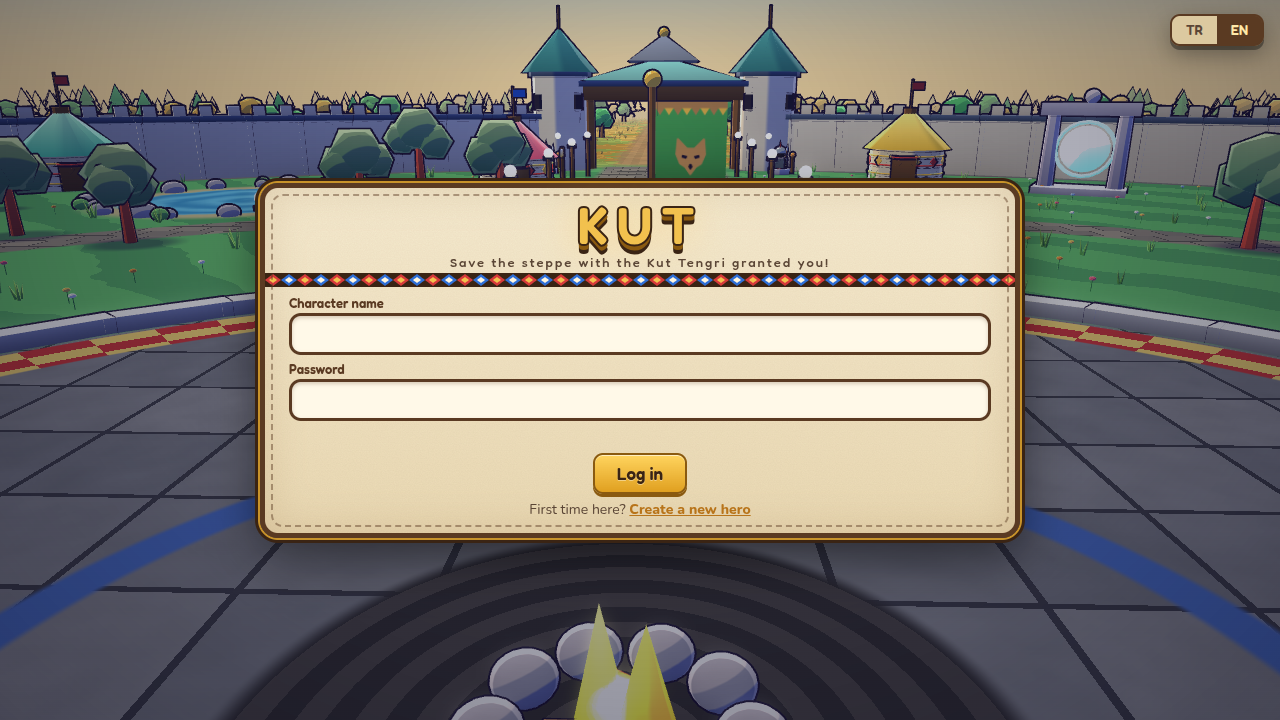
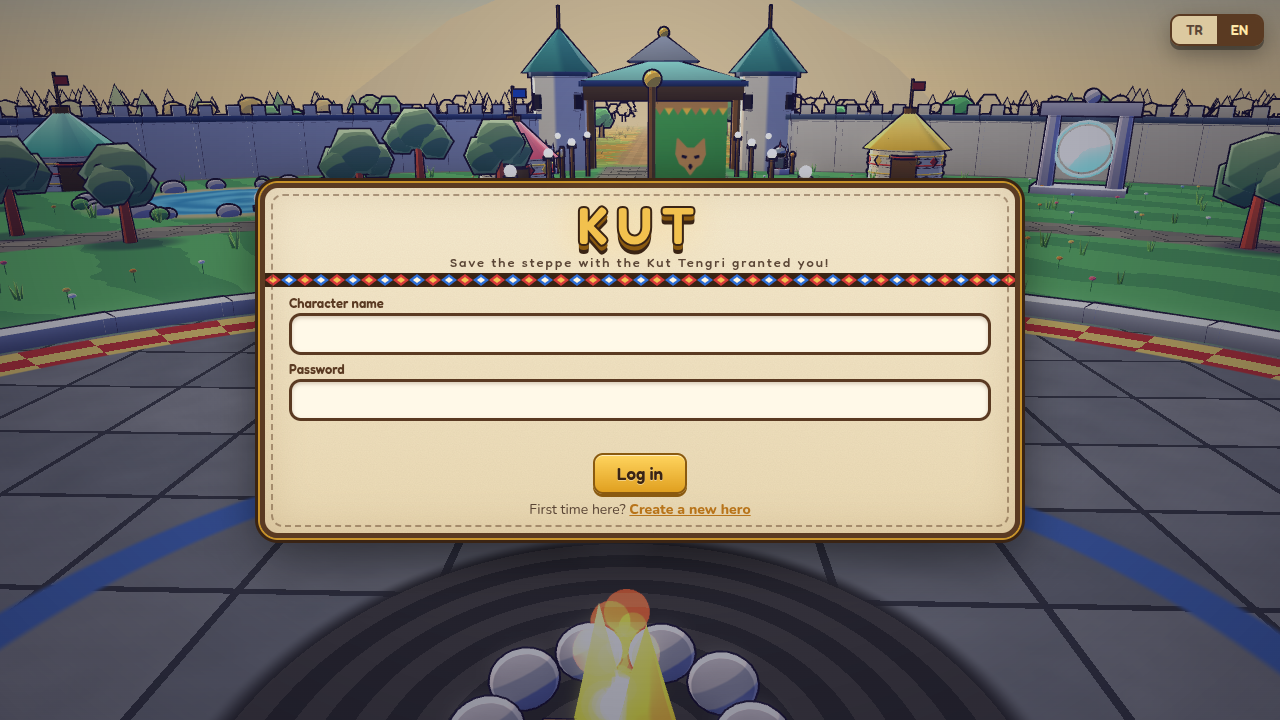
Görüş mesafesi ayarı (Yakın/Orta/Uzak): sis, kamera düzlemi, LOD ve uzak varlık hesabı tek çarpandan; otomatik kalite önce görüş mesafesini düşürür
Claude-Session: https://claude.ai/code/session_01MKJNxyGr6hh6HotEt8aAn4

diff --git a/client/src/game/world.ts b/client/src/game/world.ts
@@ -8,7 +8,7 @@ import { mulberry32 } from '@shared/rng';
 import { ROAD_HALF, ROAD_LEN, genStones, roadDist, worldObstacles } from '@shared/world';
 import { drawEmblem } from '../ui/emblems';
 import { build, type PartSpec } from './meshkit';
-import { FOG_COLOR, SKY, addOutline, toonMaterial } from './toon';
+import { FOG_COLOR, SKY, addOutline, getViewK, registerFog, toonMaterial } from './toon';
 
 // ───────────────────────── Zemin shader'ı ─────────────────────────
 Effect.ShadersStore['groundVertexShader'] = `
@@ -191,7 +191,7 @@ export class World3D {
   root = new TransformNode('world');
   chunks: Chunk[] = [];
   /** uzaklık tabanlı ayrıntı: uzaktaki çimen/kaya/ağaç parçaları ve konturları kapatılır (kamera hedefine göre) */
-  lod(camX: number, camZ: number) { const h = CHUNK * 0.71; for (const c of this.chunks) { const d = Math.hypot(c.x - camX, c.z - camZ) - h; const on = d < c.maxD; if (on !== c.on) { c.on = on; c.m.setEnabled(on); if (c.ol) { c.ol.setEnabled(on && c.olOn); } } if (c.ol && on) { const olOn = d < c.olD; if (olOn !== c.olOn) { c.olOn = olOn; c.ol.setEnabled(olOn); } } } }
+  lod(camX: number, camZ: number) { const h = CHUNK * 0.71; const kv = getViewK(); for (const c of this.chunks) { const d = Math.hypot(c.x - camX, c.z - camZ) - h; const on = d < c.maxD * kv; if (on !== c.on) { c.on = on; c.m.setEnabled(on); if (c.ol) { c.ol.setEnabled(on && c.olOn); } } if (c.ol && on) { const olOn = d < c.olD * kv; if (olOn !== c.olOn) { c.olOn = olOn; c.ol.setEnabled(olOn); } } } }
   ground!: Mesh; grounds: Mesh[] = []; sky!: Mesh; skyTop = Color3.FromHexString(SKY.top); skyMid = Color3.FromHexString(SKY.mid); skyHor = Color3.FromHexString(SKY.horizon); atmo: MapId = 'bozkir'; skyMat!: ShaderMaterial; clouds = new TransformNode('clouds');
   mats: ShaderMaterial[] = []; flames: Mesh[] = []; flagPivots: TransformNode[] = []; runes: Mesh[] = []; steleMat!: ShaderMaterial;
   otagGlow = 0; time = 0;
@@ -214,7 +214,7 @@ export class World3D {
     const g = MeshBuilder.CreateDisc('ground', { radius: WORLD_R + 130, tessellation: 96 }, this.scene);
     g.rotation.x = Math.PI / 2; g.bakeCurrentTransformIntoVertices();
     const mat = new ShaderMaterial('ground', this.scene, 'ground', { attributes: ['position'], uniforms: ['world', 'worldViewProjection', 'cameraPosition', 'uFogColor', 'uFog', 'uTime', 'uOtag'] });
-    mat.setColor3('uFogColor', FOG_COLOR); mat.setVector2('uFog', { x: 110, y: 300 } as never); mat.setFloat('uTime', 0); mat.setFloat('uOtag', 1);
+    mat.setColor3('uFogColor', FOG_COLOR); registerFog(mat, 110, 300); mat.setFloat('uTime', 0); mat.setFloat('uOtag', 1);
     mat.backFaceCulling = false; g.material = mat; g.isPickable = true; g.name = 'ground'; this.ground = g; this.grounds.push(g); this.mats.push(mat);
   }
   private makeMountains() {
@@ -505,7 +505,7 @@ export class World3D {
       const d = MeshBuilder.CreateDisc('rground' + g.id, { radius: g.r + 40, tessellation: 64 }, sc);
       d.rotation.x = Math.PI / 2; d.bakeCurrentTransformIntoVertices(); d.position.set(g.cx, 0, g.cz);
       const mat = new ShaderMaterial('rground' + g.id, sc, 'rground', { attributes: ['position'], uniforms: ['world', 'worldViewProjection', 'cameraPosition', 'uFogColor', 'uFog', 'uTime', 'uC', 'uA', 'uB', 'uR', 'uSafe', 'uKind'] });
-      mat.setColor3('uFogColor', FOG_COLOR); mat.setVector2('uFog', { x: dun ? 40 : 110, y: dun ? 140 : 300 } as never); mat.setFloat('uTime', 0);
+      mat.setColor3('uFogColor', FOG_COLOR); registerFog(mat, dun ? 40 : 110, dun ? 140 : 300); mat.setFloat('uTime', 0);
       mat.setVector2('uC', { x: g.cx, y: g.cz } as never); mat.setColor3('uA', Color3.FromHexString(def.palette.ground)); mat.setColor3('uB', Color3.FromHexString(def.palette.ground2));
       mat.setFloat('uR', g.r); mat.setFloat('uSafe', g.safeR); mat.setFloat('uKind', dun ? 1 : g.map === 'erlik' ? 2 : 0);
       mat.backFaceCulling = false; d.material = mat; d.isPickable = true; this.grounds.push(d); this.mats.push(mat);

diff --git a/client/src/ui/panels.ts b/client/src/ui/panels.ts
@@ -390,6 +390,8 @@ export class Panels {
     return this.shell(t('ui.settings'), 'skills', `<div style="min-width:460px"><div class="setrow"><span class="l">${t('ui.lang')}</span><div class="seg"><button data-act="lang" data-v="tr" class="${getLang() === 'tr' ? 'on' : ''}">Türkçe</button><button data-act="lang" data-v="en" class="${getLang() === 'en' ? 'on' : ''}">English</button></div></div>
       <div class="setrow"><span class="l">${t('ui.sound')}</span><div class="seg"><button data-act="snd" data-v="1" class="${a.muted ? '' : 'on'}">${icon('sound')} On</button><button data-act="snd" data-v="0" class="${a.muted ? 'on' : ''}">${icon('mute')} Off</button></div></div>
       <div class="setrow"><span class="l">${t('ui.quality')}</span><div class="seg">${(['high', 'medium', 'low'] as const).map((k) => `<button data-act="q" data-v="${k}" class="${q === k ? 'on' : ''}">${t('ui.q.' + k)}</button>`).join('')}</div></div>
+      <div class="setrow"><span class="l">${t('ui.view')}</span><div class="seg">${(['near', 'mid', 'far'] as const).map((k) => `<button data-act="vd" data-v="${k}" class="${this.g.gs.viewDist === k ? 'on' : ''}">${t('ui.v.' + k)}</button>`).join('')}</div></div>
+      <div class="sub" style="margin-top:2px">${t('ui.view.hint')}</div>
       <div class="gap"></div>${this.helpBody()}</div>`);
   }
   helpBody() { return `<div class="sub">${t('help.title')}</div><div class="helpgrid"><div>${t('help.move')}</div><div>${t('help.fight')}</div><div>${t('help.panels')}</div><div>${t('help.zones')}</div></div>`; }
@@ -475,6 +477,7 @@ export class Panels {
       case 'collect': { const r = await this.act('oba.collect', { expId: d.id }); if (r.ok) { const x = r.data as { result: ExpeditionResult; info: ObaInfo }; this.oba = x.info; this.expResult = x.result; this.g.audio.sfx('rare'); } break; }
       case 'lang': setLang(d.v as 'tr' | 'en'); this.g.refreshNpcNames(); this.g.ui.relocalize(); await this.g.net.rpc('lang', { lang: d.v }); break;
       case 'snd': this.g.audio.setMuted(d.v === '0'); this.g.audio.start(); break;
+      case 'vd': this.g.setViewDist(d.v as 'near' | 'mid' | 'far'); break;
       case 'q': this.g.setQuality(d.v as 'high' | 'medium' | 'low'); try { localStorage.setItem('kut.q', d.v!); } catch { /* */ } break;
     }
     if (act === 'send' || act === 'collect' || act === 'build') await this.refreshOba();

diff --git a/client/src/game/game.ts b/client/src/game/game.ts
@@ -15,6 +15,7 @@ import { GATE_LINKS, gatePos } from '@shared/game';
 import { regionAt } from '@shared/maps';
 import { LOOM_POS, costumeCode } from '@shared/costume';
 import { GameScene, type Quality } from './scene';
+import type { ViewDist } from './toon';
 import { World3D } from './world';
 
 interface Npc { key: 'aksakal' | 'demirci' | 'guard'; rig: Rig; x: number; z: number; plate: HTMLElement; mark: HTMLElement | null; t: number; faceAway?: number }
@@ -32,6 +33,7 @@ export class Game {
 
   constructor(public canvas: HTMLCanvasElement, public uiRoot: HTMLElement, quality: Quality) {
     this.gs = new GameScene(canvas, quality);
+    { let vd: ViewDist = 'mid'; try { const v = localStorage.getItem('kut.vd'); if (v === 'near' || v === 'mid' || v === 'far') vd = v; } catch { /* */ } this.gs.setViewDistance(vd); }
     this.world = new World3D(this.gs.scene);
     this.fx = new FX(this.gs.scene, uiRoot);
     this.vs = new ViewSystem(this.gs.scene, this.fx, uiRoot);
@@ -354,7 +356,7 @@ export class Game {
     // ölüm bayrağı
     if (dead && !this.wasDead) this.deadSince = now; this.wasDead = dead;
     // kalite otomatiği: uzun süre düşük kare hızı → kalite düşür
-    if (this.autoQuality && this.fps < 22 && this.gs.quality !== 'low') { if (!this.lowFpsSince) this.lowFpsSince = now; if (now - this.lowFpsSince > 6000) { this.gs.setQuality(this.gs.quality === 'high' ? 'medium' : 'low'); this.lowFpsSince = 0; this.ui.qualityChanged(); } } else this.lowFpsSince = 0;
+    if (this.autoQuality && this.fps < 22 && (this.gs.quality !== 'low' || this.gs.viewDist !== 'near')) { if (!this.lowFpsSince) this.lowFpsSince = now; if (now - this.lowFpsSince > 6000) { if (this.gs.viewDist !== 'near') this.setViewDist(this.gs.viewDist === 'far' ? 'mid' : 'near'); else this.gs.setQuality(this.gs.quality === 'high' ? 'medium' : 'low'); this.lowFpsSince = 0; this.ui.qualityChanged(); } } else this.lowFpsSince = 0;
     this.ui.frame(dt, zone);
   }
 
@@ -379,6 +381,7 @@ export class Game {
   }
 
   setQuality(q: Quality) { this.gs.setQuality(q); }
+  setViewDist(v: ViewDist) { this.gs.setViewDistance(v); try { localStorage.setItem('kut.vd', v); } catch { /* */ } }
   respawn() { return this.net.rpc('respawn'); }
   dispose() { this.gs.engine.stopRenderLoop(); this.net.leave(); }
 }

diff --git a/client/src/game/entities.ts b/client/src/game/entities.ts
@@ -5,7 +5,7 @@ import { decodeCostume } from '@shared/costume';
 import { t } from '../i18n';
 import { buildHuman, buildMob, type AnimState, type Rig } from './models';
 import { build } from './meshkit';
-import { toonMaterial } from './toon';
+import { getViewK, toonMaterial } from './toon';
 import type { FX } from './fx';
 
 interface Sample { t: number; x: number; z: number; r: number }
@@ -71,7 +71,7 @@ export class ViewSystem {
   clear() { for (const v of [...this.views.values()]) this.remove(v); }
 
   update(dt: number, now: number, myBoy: Boy | null, project: (x: number, y: number, z: number) => { x: number; y: number; vis: boolean }, camX: number, camZ: number) {
-    const crowd = this.views.size; const olR = crowd > 60 ? 14 : crowd > 35 ? 22 : 38;   // kalabalıkta kontur yarıçapı daralır
+    const kv = getViewK(); const crowd = this.views.size; const olR = (crowd > 60 ? 14 : crowd > 35 ? 22 : 38) * kv;   // kalabalıkta kontur yarıçapı daralır
     for (const v of [...this.views.values()]) {
       v.t += dt;
       if (!v.self) v.sample(now);
@@ -91,7 +91,8 @@ export class ViewSystem {
       // yeniden doğma: bayrak kalktı ve can var → ölüm durumunu sıfırla (oyuncu görünümü silinmez, görünmez kalmaz)
       if (v.dyingT >= 0.2 && !(v.flags & F.DEAD) && v.hp > 0 && v.kind === 'player') { v.dyingT = -1; v.rig.root.rotation.z = 0; v.rig.root.rotation.x = 0; v.rig.baseY = 0; v.removeAt = 0; }
       // ayrıntı düzeyi: uzakta kontur kapalı, çok uzakta karakter hiç çizilmez (kendi karakter hariç)
-      if (!v.self) { const dd = Math.hypot(v.x - camX, v.z - camZ); v.rig.setOutlines(dd < olR); const off = dd > 95; if (off !== v.lodOff) { v.lodOff = off; v.rig.root.setEnabled(!off); } }
+      if (!v.self) { const dd = Math.hypot(v.x - camX, v.z - camZ); v.rig.setOutlines(dd < olR); const off = dd > 95 * kv; if (off !== v.lodOff) { v.lodOff = off; v.rig.root.setEnabled(!off); } }
+      if (v.lodOff && v.dyingT < 0 && !v.self) { v.plate.style.display = 'none'; continue; }   // görüş dışı: animasyon, boyama ve DOM işi yok (CPU tasarrufu)
       const dead = (v.flags & F.DEAD) !== 0 || v.dyingT >= 0;
       if (dead && v.dyingT < 0) v.dyingT = 0;
       if (v.dyingT >= 0) { v.dyingT += dt / 0.7; }

diff --git a/client/src/game/toon.ts b/client/src/game/toon.ts
@@ -6,6 +6,14 @@ import {
 
 export const SKY = { top: '#16246a', mid: '#4d9be0', horizon: '#ffe2a3' };
 export const FOG_COLOR = new Color3(0.93, 0.84, 0.64);
+/** Görüş mesafesi (Metin2'deki Uzak–Yakın ayarı gibi): sis aralığı, kamera kırpma düzlemi ve LOD mesafeleri tek çarpandan (k) ölçeklenir. */
+export type ViewDist = 'near' | 'mid' | 'far';
+export const VIEW_K: Record<ViewDist, number> = { near: 0.45, mid: 0.75, far: 1 };
+const FOGS = new Map<ShaderMaterial, [number, number]>(); let viewK = VIEW_K.mid;
+export const getViewK = () => viewK;
+/** Malzemenin sis aralığını (taban değerlerle) kaydeder ve geçerli görüş mesafesine göre uygular. */
+export function registerFog(m: ShaderMaterial, x: number, y: number) { FOGS.set(m, [x, y]); m.setVector2('uFog', { x: x * viewK, y: y * viewK } as never); m.onDisposeObservable.add(() => FOGS.delete(m)); }
+export function setViewK(k: number) { viewK = k; for (const [m, [x, y]] of FOGS) m.setVector2('uFog', { x: x * k, y: y * k } as never); }
 export const LIGHT_DIR = { x: -0.45, y: 0.8, z: 0.4 }; // IŞIĞA doğru yön
 
 Effect.ShadersStore['toonVertexShader'] = `
@@ -91,7 +99,7 @@ export function toonMaterial(scene: Scene, o: ToonOpts = {}): ShaderMaterial {
   m.setColor3('uFlashColor', Color3.White()); m.setFloat('uFlash', 0);
   m.setVector3('uLight', { x: LIGHT_DIR.x, y: LIGHT_DIR.y, z: LIGHT_DIR.z } as never);
   m.setColor3('uShadow', new Color3(0.5, 0.56, 0.82));
-  m.setColor3('uFogColor', FOG_COLOR); m.setVector2('uFog', { x: 110, y: 300 } as never);
+  m.setColor3('uFogColor', FOG_COLOR); registerFog(m, 110, 300);
   m.setFloat('uRim', o.rim ?? 1); m.setFloat('uAlpha', o.alpha ?? 1);
   return m;
 }

diff --git a/client/src/i18n.ts b/client/src/i18n.ts
@@ -15,6 +15,8 @@ const D: Record<string, [string, string]> = {
   'ui.connecting': ['Bağlanıyor…', 'Connecting…'], 'ui.loading': ['Dünya yükleniyor…', 'Loading the world…'], 'ui.close': ['Kapat', 'Close'], 'ui.ok': ['Tamam', 'OK'], 'ui.cancel': ['Vazgeç', 'Cancel'],
   'ui.newhere': ['İlk kez mi geliyorsun?', 'First time here?'], 'ui.have': ['Hesabın var mı?', 'Have an account?'],
   'ui.lang': ['Dil', 'Language'], 'ui.sound': ['Ses', 'Sound'], 'ui.quality': ['Grafik', 'Graphics'], 'ui.q.high': ['Yüksek', 'High'], 'ui.q.medium': ['Orta', 'Medium'], 'ui.q.low': ['Düşük', 'Low'],
+  'ui.view': ['Görüş mesafesi', 'View distance'], 'ui.v.near': ['Yakın', 'Near'], 'ui.v.mid': ['Orta', 'Medium'], 'ui.v.far': ['Uzak', 'Far'],
+  'ui.view.hint': ['Yakın: uzaktaki her şeyi çizmeyi ve hesaplamayı keser, kalabalıkta en çok FPS kazandırır. Kasma olursa oyun bunu kendisi de düşürür.', 'Near: stops drawing and updating distant things; biggest FPS win in crowds. The game also lowers it automatically when frames drop.'],
   'ui.level': ['Sv', 'Lv'], 'ui.rested': ['Dinlenmiş', 'Rested'], 'ui.xp': ['Deneyim', 'Experience'], 'ui.kut': ['Kut puanı', 'Kut points'], 'ui.gold': ['Akçe', 'Akçe'],
   'ui.hp': ['Can', 'HP'], 'ui.dead': ['Yenildin', 'You were defeated'], 'ui.respawn': ['Kampa dön', 'Return to camp'], 'ui.respawnIn': ['{n} sn sonra kampa dönebilirsin', 'You can return in {n}s'],
   'ui.interact': ['Konuş / Kullan', 'Talk / Use'], 'ui.press': ['{k} tuşu', 'Press {k}'],

diff --git a/tests/perf/mob-perf.ts b/tests/perf/mob-perf.ts
@@ -11,7 +11,7 @@ const url = `http://localhost:${srv.port}/`; const world = () => [...srv.ctx.wor
 const sleep = (ms: number) => new Promise((r) => setTimeout(r, ms));
 const browser = await chromium.launch({ executablePath: '/opt/pw-browsers/chromium', args: ['--use-angle=swiftshader', '--use-gl=angle', '--enable-unsafe-swiftshader', '--ignore-gpu-blocklist'] });
 const ctx = await browser.newContext({ viewport: { width: 1280, height: 720 }, locale: 'tr-TR' });
-await ctx.addInitScript(() => { try { localStorage.setItem('kut.lang', 'tr'); localStorage.setItem('kut.q', 'medium'); } catch { /* */ } });
+await ctx.addInitScript((vd) => { (window as any).__VD = vd; try { localStorage.setItem('kut.lang', 'tr'); localStorage.setItem('kut.q', 'medium'); localStorage.setItem('kut.vd', (window as any).__VD ?? 'mid'); } catch { /* */ } }, process.env.VD ?? 'mid');
 const page = await ctx.newPage(); page.setDefaultTimeout(120000);
 const NAME = 'Perf' + Math.floor(Math.random() * 900 + 100);
 await page.goto(url + '?autoq=0'); await page.waitForSelector('.title .tcard', { timeout: 120000 }); await sleep(1500);

diff --git a/client/src/game/scene.ts b/client/src/game/scene.ts
@@ -1,7 +1,7 @@
 import {
   ArcRotateCamera, Color4, DefaultRenderingPipeline, Engine, Scene, Vector3,
 } from '@babylonjs/core';
-import { FOG_COLOR } from './toon';
+import { FOG_COLOR, VIEW_K, setViewK, type ViewDist } from './toon';
 
 export type Quality = 'high' | 'medium' | 'low';
 
@@ -18,6 +18,9 @@ export class GameScene {
     this.setQuality(quality);
     window.addEventListener('resize', () => this.engine.resize());
   }
+  viewDist: ViewDist = 'mid';
+  /** Görüş mesafesi: sis aralığı + kamera uzak düzlemi + LOD (World3D.lod ve EntityViews getViewK'yi okur). */
+  setViewDistance(v: ViewDist) { this.viewDist = v; const k = VIEW_K[v]; setViewK(k); this.camera.maxZ = Math.max(220, 300 * k * 1.25 + 80); }
   setQuality(q: Quality) {
     this.quality = q;
     this.pipeline?.dispose(); this.pipeline = null;

diff --git a/docs/ozellikler/HARITA_V2.md b/docs/ozellikler/HARITA_V2.md
@@ -39,3 +39,10 @@ Seviye mesafesi köy dışından (sv 1) haritanın kenarına (sv 48) doğrusal (
 - Nüfus simülasyonu ekonomi sonuçları **eski haritada** koşuldu. Yürüme mesafesi ×3 olduğu için kamp ziyareti ve gelir dağılımı değişebilir; yeniden kalibrasyon gerekir.
 - Haritada hâlâ yalnız ana yollar var; ara yol/nehir/dağ geçidi, ek kasaba ve hızlı yolculuk noktaları yok.
 - Gerçek GPU'da FPS ölçülemedi (yazılım rasterleştirme); kanıt üçgen/çizim sayıları.
+
+## Görüş mesafesi ayarı (Yakın / Orta / Uzak)
+
+Ayarlar panelinde (`Grafik` satırının altında). Metin2'deki Uzak–Yakın seçeneği gibi tek çarpandan (`VIEW_K`: 0,45 / 0,75 / 1) şunları birlikte ölçekler: sis aralığı, kamera uzak düzlemi, çimen/kaya/ağaç/köy parçalarının ve konturlarının kapanma mesafesi, uzak karakterlerin çizimi ve hesabı (95 m'nin ötesinde animasyon, boyama ve DOM plaka işi yapılmaz). Varsayılan Orta; seçim `localStorage`'da saklanır. Kare hızı 6 sn boyunca 22'nin altında kalırsa oyun önce görüş mesafesini, sonra grafik kalitesini kendisi düşürür.
+
+Ölçüm (köy görünümü, yazılım rasterleştirme): Uzak → Yakın: üçgen 562k → 484k (−%14), etkin mesh 752 → 464 (−%38), 40 yaratıkla varlık güncellemesi 0,55 → 0,24 ms. Kazanç açık sahada ve kalabalıkta daha büyüktür; köy görünümünde çoğu nesne zaten yakın.
+Sunucu tarafı ilgi alanı (`AOI_R` = 75 m, hangi yaratık/oyuncunun gönderileceği) sabit; istemci ayarı yalnız çizim ve hesabı azaltır.
